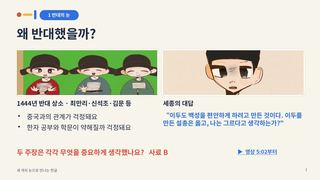
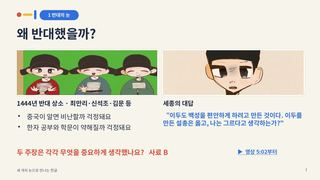
Clarify the China objection and the discussion guide wording
- Site (반대의 눈 card, source B), PPT slide 7: replace the vague
  "중국과의 관계" with the 상소's actual point, that China might
  criticize the new script (事大慕華).
- Site 토의와 평가 and slide 7 notes: replace "놓친 사람의 입장" with
  an explicit question about who is inconvenienced by each argument.
- Regenerate slide 7 preview image and thumbnail.

Claude-Session: https://claude.ai/code/session_01Pmh6PhJww4VXSAKX9u9GHE

Changed region(s): [[0.125, 0.6111, 0.3438, 0.6667]]

diff --git a/index.html b/index.html
@@ -126,7 +126,7 @@ table{width:100%;border-collapse:collapse;font-size:15px;background:#fff;border-
 <span class="eyebrow">01 세 개의 눈</span><h2>같은 글자, 서로 다른 마음</h2><p class="lead">영상 속 세 인물이 새 글자를 어떻게 바라보았는지 살펴봐요.</p>
 <div class="grid3">
 <article class="card"><img class="face" src="img/face_sejong.jpg" alt="그림책 속 세종" style="border-color:#89C4E1"><h3>1장 세종의 눈</h3><p>하고 싶은 말이 있어도 제 뜻을 펴지 못하는 백성이 많았어요. 그림책 속 세종은 “누구나 읽고 쓸 수 있는 새로운 글자를 만들었도다”라고 말해요.</p><p class="q">글자를 알면 백성의 생활은 어떻게 달라질까요?</p><small>사료 A · C</small></article>
-<article class="card"><img class="face" src="img/face_opposers.jpg" alt="그림책 속 최만리·신석조·김문" style="border-color:#F5D76E"><h3>2장 반대의 눈</h3><p>최만리·신석조·김문 등 일부 신하들은 중국과의 관계, 한자 공부와 학문을 걱정했어요. 세종은 이두처럼 새 글자도 백성을 편하게 하려는 것이라고 답했어요.</p><p class="q">두 주장은 각각 무엇을 중요하게 생각했나요?</p><small>사료 B</small></article>
+<article class="card"><img class="face" src="img/face_opposers.jpg" alt="그림책 속 최만리·신석조·김문" style="border-color:#F5D76E"><h3>2장 반대의 눈</h3><p>최만리·신석조·김문 등 일부 신하들은 새 글자가 중국에 알려지면 비난받을까, 한자 공부와 학문이 약해질까 걱정했어요. 세종은 이두처럼 새 글자도 백성을 편하게 하려는 것이라고 답했어요.</p><p class="q">두 주장은 각각 무엇을 중요하게 생각했나요?</p><small>사료 B</small></article>
 <article class="card"><img class="face" src="img/face_sukju.jpg" alt="그림책 속 신숙주·성삼문" style="border-color:#7FBF8C"><h3>3장 찬성의 눈</h3><p>신숙주와 성삼문이 서당 아이들과 함께 새 글자의 좋은 점을 알릴 방법을 찾아요(영상 속 상상). 두 사람은 실제로 해례본을 함께 지은 집현전 학자예요.</p><p class="q">여러분이라면 한글의 어떤 점을 알리겠어요?</p><small>사료 D · E</small></article>
 </div></div></section>
 
@@ -173,7 +173,7 @@ table{width:100%;border-collapse:collapse;font-size:15px;background:#fff;border-
 <details class="box"><summary>역사적 사실을 다룰 때</summary><ul>
 <li>1443년 창제와 1446년 반포를 구분합니다.</li><li>반대 상소는 1444년입니다. 영상의 전개 순서를 실제 연표로 옮기지 않습니다.</li><li>한글 이전에도 우리말은 있었습니다. 말과 문자를 구분합니다.</li><li>집현전 학자 전부가 반대한 것으로 설명하지 않습니다. 신숙주·성삼문처럼 해례본을 함께 지은 학자도 있었습니다.</li><li>한글이 생기자 모든 백성이 곧바로 글을 읽게 된 것은 아닙니다.</li></ul></details>
 <details class="box"><summary>토의와 평가</summary><ul>
-<li>“나쁜 사람”이라는 판단보다 주장의 근거와 놓친 사람의 입장을 묻습니다.</li><li>문해력의 차이를 지능·인격의 차이로 연결하지 않습니다.</li><li>사료를 근거로 설명하는지, 자신의 경험을 연결하는지 살핍니다. 맞춤법만으로 평가하지 않습니다.</li><li>활동지 2 답 방향: ① 사실(A) ② 상소는 사실(B), 유튜브 생방송은 상상 ③ 한글이 퍼진 것은 사실(E), 챌린지라는 방법은 상상 ④ 사실(D)</li></ul></details>
+<li>“나쁜 사람”이라고 판단하기보다, 각 주장의 근거가 무엇인지와 그 주장대로 되면 누가 불편을 겪는지(예: 글을 모르는 백성)를 묻습니다.</li><li>문해력의 차이를 지능·인격의 차이로 연결하지 않습니다.</li><li>사료를 근거로 설명하는지, 자신의 경험을 연결하는지 살핍니다. 맞춤법만으로 평가하지 않습니다.</li><li>활동지 2 답 방향: ① 사실(A) ② 상소는 사실(B), 유튜브 생방송은 상상 ③ 한글이 퍼진 것은 사실(E), 챌린지라는 방법은 상상 ④ 사실(D)</li></ul></details>
 <details class="box"><summary>자료 출처와 영상 정보</summary><ul>
 <li>뮤지컬 그림책·영상 〈새로운 문자 : 세 개의 눈〉 — 제작 교육뮤지컬 꿈꾸는 치수쌤(원치수), 작곡 김아름, 그림 손연희·이윤경·임나현·고은준, 글 2022 배영초 나세나반, 펴낸곳 배영초등학교. 그림책 초판 2022. 12. 30. 발행, 영상 2023. 2. 19. 게시. 〈역사의 공기 : 역사 이야기, 공유된 기록으로 만나다〉 프로젝트 결과물입니다. 이 사이트의 인물 그림은 그림책에서 가져왔습니다.</li>
 <li>사료 제공 국사편찬위원회 · 국역 세종대왕기념사업회 · 문헌 해설 국가유산청 · 전시 해설 국립한글박물관. 쉬운 풀이는 수업용 재서술입니다. 자료 확인 2026. 10. 7.</li>
@@ -184,7 +184,7 @@ table{width:100%;border-collapse:collapse;font-size:15px;background:#fff;border-
 <script>
 const SOURCES=[
 {id:'A',kind:'1차 사료',title:'1443년, 새 문자 28자를 만들다',doc:'『세종실록』 102권 · 세종 25년 12월 기사 (DB 편목 12월 30일 2번째 기사)',label:'원문 짧은 발췌',original:'是月, 上親制諺文二十八字',easy:'이달에 임금이 직접 언문 28자를 만들었다는 기록이에요. 초성·중성·종성을 합하여 글자를 이룬다고 설명해요.',note:'본문은 “이달에”라고 기록합니다. DB의 12월 30일을 정확한 창제일로 단정하지 않습니다.',url:'https://sillok.history.go.kr/id/kda_12512030_002',link:'원문·국역 보기'},
-{id:'B',kind:'1차 사료',title:'1444년, 반대 상소와 세종의 대답',doc:'『세종실록』 103권 · 세종 26년 2월 20일 1번째 기사 (음력)',label:'세종 답변 요지 · 수업용 재서술',original:'이두가 백성을 편하게 하려던 것이라면, 새 언문도 백성을 편하게 하려는 것이다.',easy:'최만리와 일부 신하들은 중국과의 관계, 한자 학습과 학문에 미칠 영향을 걱정했어요. 세종은 새 문자로 백성을 편리하게 하려는 뜻을 밝혔어요.',note:'상소는 창제 뒤, 1446년 반포 이전의 기록입니다. 반대한 학자를 단정적으로 평가하거나 집현전 전체가 반대했다고 설명하지 않습니다. 세종의 답은 원문에서 반문 형식이며, 위 문장은 요지를 풀어 쓴 것이므로 정확한 국역은 링크에서 확인합니다.',url:'https://sillok.history.go.kr/id/kda_12602020_001',link:'원문·국역 보기'},
+{id:'B',kind:'1차 사료',title:'1444년, 반대 상소와 세종의 대답',doc:'『세종실록』 103권 · 세종 26년 2월 20일 1번째 기사 (음력)',label:'세종 답변 요지 · 수업용 재서술',original:'이두가 백성을 편하게 하려던 것이라면, 새 언문도 백성을 편하게 하려는 것이다.',easy:'최만리와 일부 신하들은 새 글자가 중국에 알려지면 중국을 섬기는 도리에 어긋난다는 비난을 받을까 걱정했어요. 한자 학습과 학문에 미칠 영향도 걱정했어요. 세종은 새 문자로 백성을 편리하게 하려는 뜻을 밝혔어요.',note:'상소는 창제 뒤, 1446년 반포 이전의 기록입니다. 반대한 학자를 단정적으로 평가하거나 집현전 전체가 반대했다고 설명하지 않습니다. 세종의 답은 원문에서 반문 형식이며, 위 문장은 요지를 풀어 쓴 것이므로 정확한 국역은 링크에서 확인합니다.',url:'https://sillok.history.go.kr/id/kda_12602020_001',link:'원문·국역 보기'},
 {id:'C',kind:'1차 사료',title:'1446년, 백성이 제 뜻을 펼치도록',doc:'『세종실록』 113권에 실린 어제 · 세종 28년 9월 기사 (DB 편목 9월 29일 4번째 기사)',label:'원문 짧은 발췌',original:'而終不得伸其情者多矣',easy:'우리말을 한자로 적기 어려워 백성이 뜻을 충분히 펴지 못했어요. 세종은 누구나 쉽게 배우고 일상에서 편리하게 쓰기를 바랐어요.',note:'원문은 끝내 자기 뜻을 펴지 못하는 사람이 많다는 취지입니다. 어제는 임금이 지은 글을 뜻합니다.',url:'https://sillok.history.go.kr/id/kda_12809029_004',link:'원문·국역 보기'},
 {id:'D',kind:'문헌 해설',title:'글자와 책, 두 가지 훈민정음',doc:'『훈민정음』 해례본 · 1446년 간행 · 국가유산청 국가유산포털 해설',label:'문헌명',original:'訓民正音',easy:'훈민정음은 새 문자의 이름이면서 책의 이름이에요. 해례본에는 창제 목적, 소리와 글자의 원리, 사용 방법과 예가 담겨 있어요.',note:'세종의 문자 창제와 학자들의 해설·용례 편찬을 구분합니다. 연결 자료는 원문 전체가 아니라 국가유산청의 문헌 해설입니다.',url:'https://www.heritage.go.kr/heri/html/HtmlPage.do?pageNo=1_1_2_0&pg=%2Funesco%2FMemHeritage%2FMemHeritage_01.jsp',link:'공식 해설 보기'},
 {id:'E',kind:'공식 해설',title:'생활 속에서 이어진 한글',doc:'국립한글박물관 상설 전시 「훈민정음, 천년의 문자 계획」',label:'전시 주제어',original:'사람마다 · 날로 씀에',easy:'한글은 다양한 계층의 편지, 생활 기록, 책에서 쓰였어요. 배우기 쉬운 글자가 생긴 뒤에도 활용과 보급은 긴 시간에 걸쳐 이루어졌어요.',note:'오늘날 기관이 작성한 해설 자료입니다. 당시 작성된 1차 사료와 구분해서 읽습니다.',url:'https://www.hangeul.go.kr/exhi/dailyExhibition.do?curr_menu_cd=0102010000',link:'공식 해설 보기'}];
